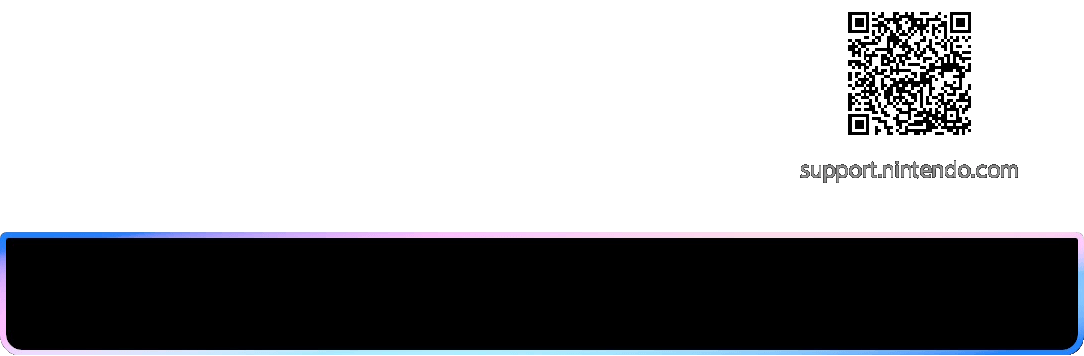
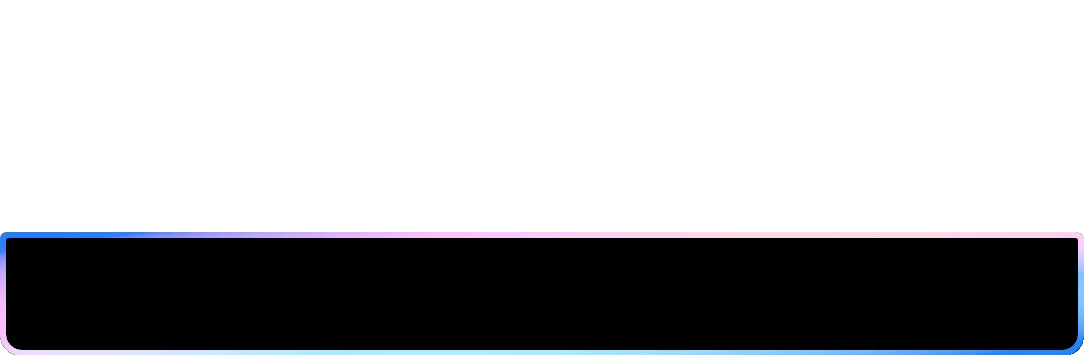
feat: fix switch 2 render accuracy

Changed region(s): [[0.7611, 0.0309, 0.9133, 0.4017], [0.7306, 0.4635, 0.9437, 0.5253]]

diff --git a/src/lib/components/Error/Error.svelte b/src/lib/components/Error/Error.svelte
@@ -119,12 +119,30 @@
 						printTextArea(ctx, editedButtonArea, button);
 
 						if (template?.qrArea) {
-							const qrCanvas = qrcanvas({
-								data: qr
-							});
-					
+							loadImage(template.qrBaseUrl).then((img) => {
+								ctx.drawImage(
+									img,
+									canvas.width - template.qrBase.w - template.qrBase.right,
+									(canvas.height - template.qrBase.h) / 2 - template.qrBase.verticalAlignOffset
+								);
 
-							ctx?.drawImage(qrCanvas, canvas.width - template.qrArea.right - template.qrArea.w, canvas.height - template.qrArea.bottom - template.qrArea.h, template.qrArea.w, template.qrArea.h)
+								const qrCanvas = qrcanvas({
+									data: qr
+								});
+
+								const qrCodePos = {
+									x: canvas.width - template.qrArea.right - template.qrArea.w,
+									y: -1,
+									w: template.qrArea.w,
+									h: template.qrArea.h
+								};
+
+								if (template.qrArea?.verticalAlign === 'center') {
+									qrCodePos.y = (canvas.height - qrCodePos.h) / 2 + template.qrArea.verticalAlignOffset;
+								}
+
+								ctx?.drawImage(qrCanvas, qrCodePos.x, qrCodePos.y, qrCodePos.w, qrCodePos.h);
+							});
 						}
 
 						/*
@@ -341,6 +359,13 @@
 	<link
 		rel="preload"
 		href="/res/errors/switch2_btn.png"
+		as="image"
+		type="image/png"
+		crossorigin="anonymous"
+	/>
+		<link
+		rel="preload"
+		href="/res/errors/switch2_qr.png"
 		as="image"
 		type="image/png"
 		crossorigin="anonymous"
